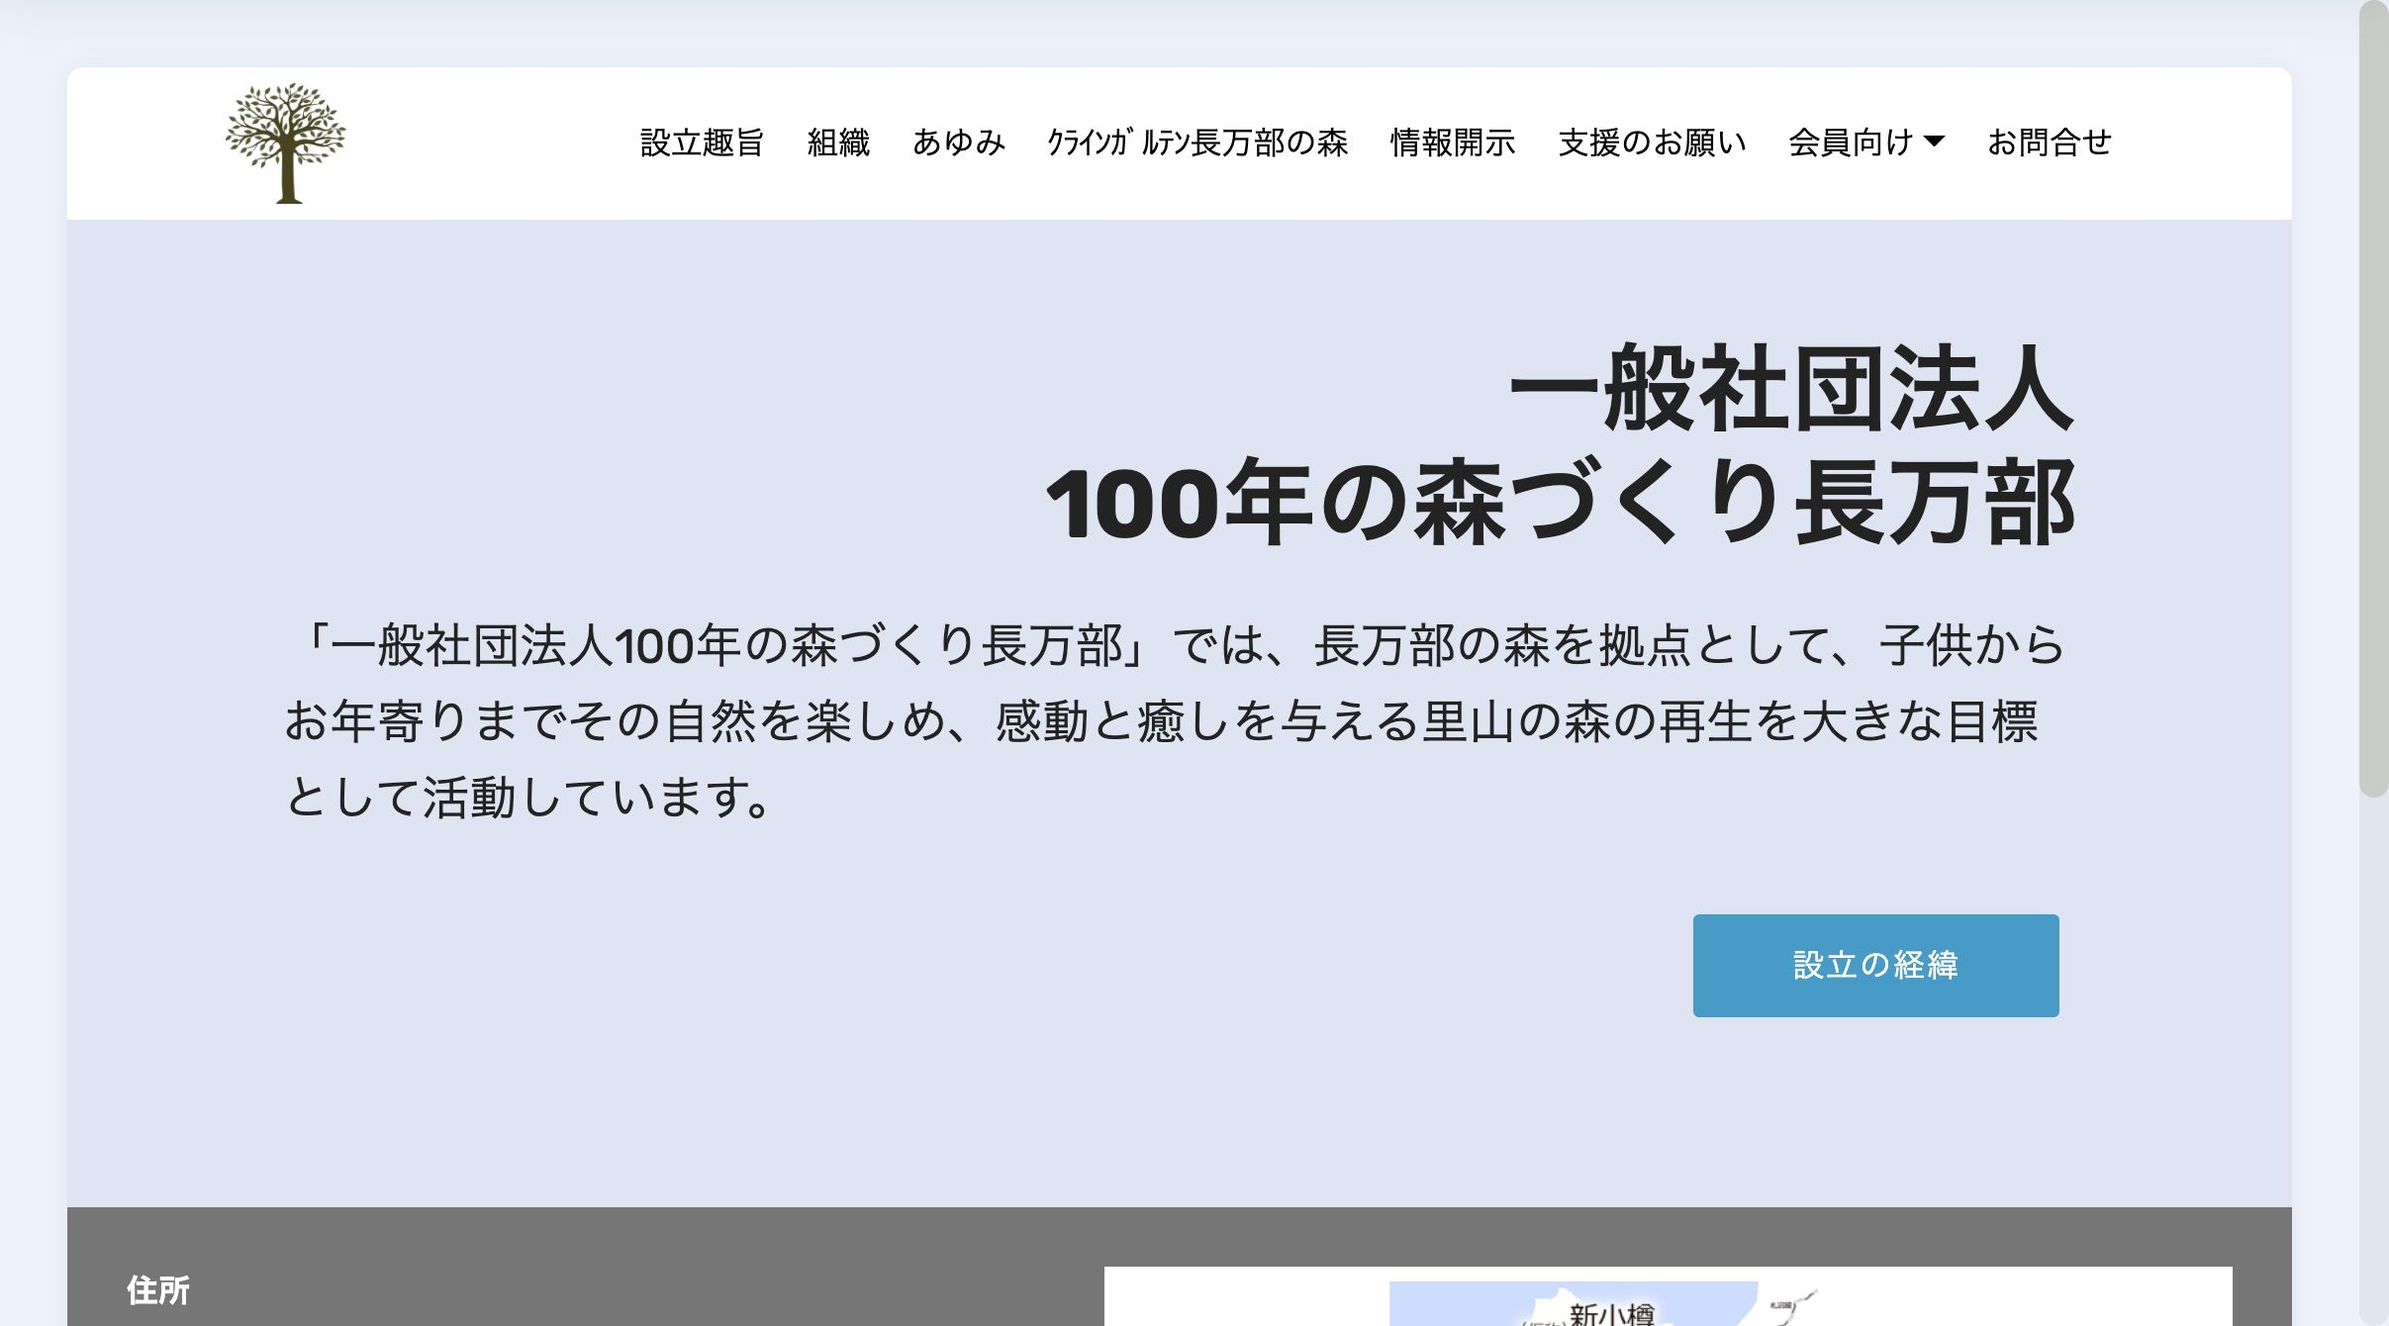
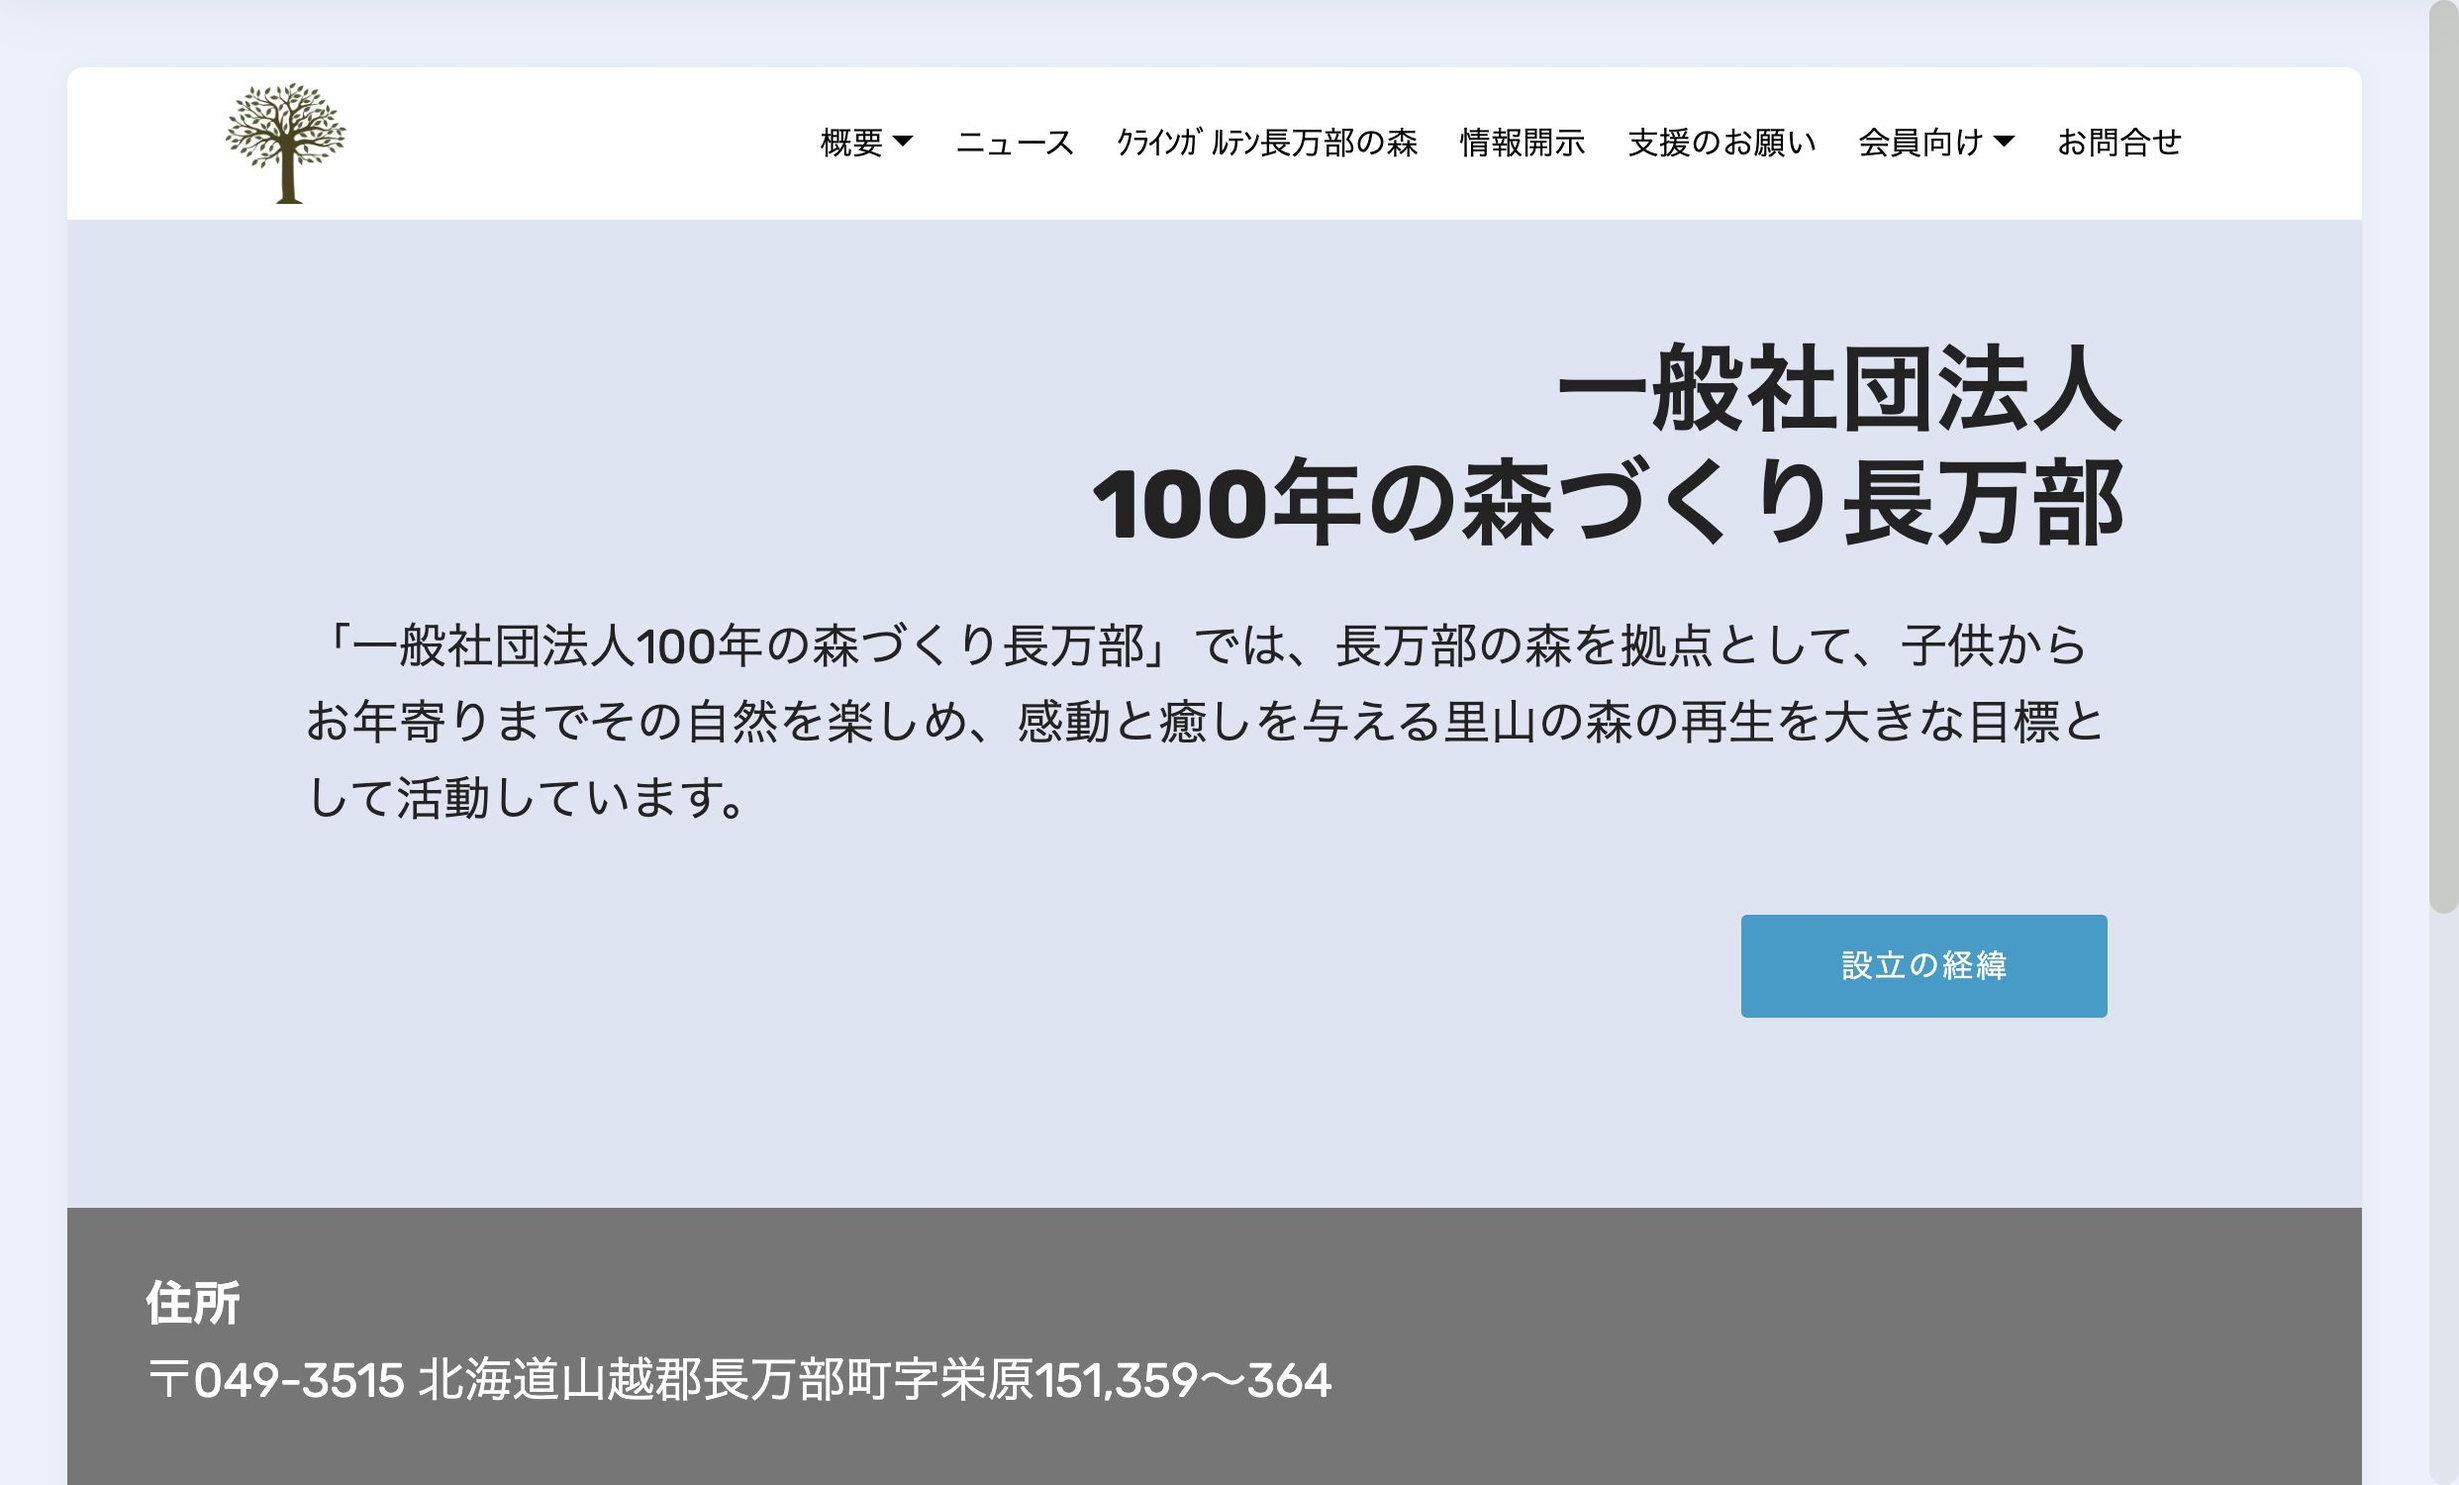
update

diff --git a/sien.html b/sien.html
@@ -40,37 +40,7 @@ j=d.createElement(s),dl=l!='dataLayer'?'&l='+l:'';j.async=true;j.src=
 
 
   
-  <section class="menu cid-qv1frvgcz3" once="menu" id="menu1-nv">
-
-    
-
-    <nav class="navbar navbar-expand beta-menu navbar-dropdown align-items-center navbar-fixed-top navbar-toggleable-sm">
-        <button class="navbar-toggler navbar-toggler-right" type="button" data-toggle="collapse" data-target="#navbarSupportedContent" aria-controls="navbarSupportedContent" aria-expanded="false" aria-label="Toggle navigation">
-            <div class="hamburger">
-                <span></span>
-                <span></span>
-                <span></span>
-                <span></span>
-            </div>
-        </button>
-        <div class="menu-logo">
-            <div class="navbar-brand">
-                <span class="navbar-logo">
-                    <a href="index.html">
-                         <img src="assets/images/tree.png" alt="" title="" style="height: 3.8rem;">
-                    </a>
-                </span>
-                
-            </div>
-        </div>
-        <div class="collapse navbar-collapse" id="navbarSupportedContent">
-            <ul class="navbar-nav nav-dropdown nav-right" data-app-modern-menu="true"><li class="nav-item"><a class="nav-link link text-black text-primary display-4" href="syushi.html" aria-expanded="false">設立趣旨</a></li><li class="nav-item"><a class="nav-link link text-black text-primary display-4" href="page10.html" aria-expanded="false">組織</a></li><li class="nav-item"><a class="nav-link link text-black text-primary display-4" href="ayumi.html" aria-expanded="false">あゆみ</a></li><li class="nav-item"><a class="nav-link link text-black display-4" href="mori.html" aria-expanded="false">ｸﾗｲﾝｶﾞﾙﾃﾝ長万部の森</a></li><li class="nav-item"><a class="nav-link link text-black display-4" href="kaiji.html" aria-expanded="false">情報開示</a></li><li class="nav-item"><a class="nav-link link text-black display-4" href="sien.html" aria-expanded="false">支援のお願い</a></li><li class="nav-item dropdown"><a class="nav-link link text-black dropdown-toggle display-4" href="page36.html" aria-expanded="false" data-toggle="dropdown-submenu">会員向け</a><div class="dropdown-menu"><a class="text-black dropdown-item display-4" href="kiyaku.html" aria-expanded="false">規約</a><a class="text-black dropdown-item display-4" href="lodge.html" aria-expanded="false">ロッジ利用マニュアル</a></div></li><li class="nav-item"><a class="nav-link link text-black text-primary display-4" href="toiawase.html" aria-expanded="false">お問合せ</a></li></ul>
-            
-        </div>
-    </nav>
-</section>
-
-<section class="header1 cid-rAjb6OKRKm" id="header16-ok">
+  <section class="header1 cid-rAjb6OKRKm" id="header16-ok">
 
     
 
@@ -108,6 +78,36 @@ j=d.createElement(s),dl=l!='dataLayer'?'&l='+l:'';j.async=true;j.src=
         </div>
     </div>
 
+</section>
+
+<section class="menu cid-qv1frvgcz3" once="menu" id="menu1-nv">
+
+    
+
+    <nav class="navbar navbar-expand beta-menu navbar-dropdown align-items-center navbar-fixed-top navbar-toggleable-sm">
+        <button class="navbar-toggler navbar-toggler-right" type="button" data-toggle="collapse" data-target="#navbarSupportedContent" aria-controls="navbarSupportedContent" aria-expanded="false" aria-label="Toggle navigation">
+            <div class="hamburger">
+                <span></span>
+                <span></span>
+                <span></span>
+                <span></span>
+            </div>
+        </button>
+        <div class="menu-logo">
+            <div class="navbar-brand">
+                <span class="navbar-logo">
+                    <a href="index.html">
+                         <img src="assets/images/tree.png" alt="" title="" style="height: 3.8rem;">
+                    </a>
+                </span>
+                
+            </div>
+        </div>
+        <div class="collapse navbar-collapse" id="navbarSupportedContent">
+            <ul class="navbar-nav nav-dropdown nav-right" data-app-modern-menu="true"><li class="nav-item"><a class="nav-link link text-black text-primary display-4" href="syushi.html" aria-expanded="false">設立趣旨</a></li><li class="nav-item"><a class="nav-link link text-black text-primary display-4" href="page10.html" aria-expanded="false">組織</a></li><li class="nav-item"><a class="nav-link link text-black text-primary display-4" href="ayumi.html" aria-expanded="false">あゆみ</a></li><li class="nav-item"><a class="nav-link link text-black display-4" href="mori.html" aria-expanded="false">ｸﾗｲﾝｶﾞﾙﾃﾝ長万部の森</a></li><li class="nav-item"><a class="nav-link link text-black display-4" href="kaiji.html" aria-expanded="false">情報開示</a></li><li class="nav-item"><a class="nav-link link text-black display-4" href="sien.html" aria-expanded="false">支援のお願い</a></li><li class="nav-item dropdown"><a class="nav-link link text-black dropdown-toggle display-4" href="page36.html" aria-expanded="false" data-toggle="dropdown-submenu">会員向け</a><div class="dropdown-menu"><a class="text-black dropdown-item display-4" href="kiyaku.html" aria-expanded="false">規約</a><a class="text-black dropdown-item display-4" href="lodge.html" aria-expanded="false">ロッジ利用マニュアル</a></div></li><li class="nav-item"><a class="nav-link link text-black text-primary display-4" href="toiawase.html" aria-expanded="false">お問合せ</a></li></ul>
+            
+        </div>
+    </nav>
 </section>
 
 <section class="section-table cid-rAj660rWZB" id="table1-oi">

diff --git a/syushi.html b/syushi.html
@@ -81,7 +81,7 @@ j=d.createElement(s),dl=l!='dataLayer'?'&l='+l:'';j.async=true;j.src=
                 </h2>
                 <h3 class="mbr-section-subtitle align-center mbr-light mbr-fonts-style display-7">
                     当法人は、クラインガルテン長万部の森の利用、整備及び保全並びに自然環境の保護及び整備を行い、それを活用して、自然と共生し心豊かな人生を目指す大人への支援及び自然のなかで児童や青少年の心身の健全な育成を目的とし、その目的に資するために次の事業を行います。
-                <div><br></div><div>1. 長万部栄原地区で里山づくりをすすめ、動物、植物、昆虫等の生物と人が共生する<span style="font-size: 1rem;">自然環境の保護、整備及び保全を図る事業</span></div><div><br></div><div>2. 上記里山を活用し、自然教育等を通じて児童又は青少年の心身の健全な育成を目的<span style="font-size: 1rem;">とする教育事業</span></div><div><br></div><div>3. 上記里山を活用し、大人の自然体験、環境教育・野外教育プログラム等を通じて、<span style="font-size: 1rem;">自然と共生し心豊かな人生を目指す人を応援する事業</span></div><br><div><span style="font-size: 1rem;">4. 前各号に反しない範囲で、当該地区にある資源を活用した林業、農業、造園業、漁業、&nbsp;</span><span style="font-size: 1rem;">狩猟業、飲食業、観光業、旅館業、席貸業、旅行業、音楽事業及び一定の技芸教授業等の事業並びに食品、健康関連商品、化粧品の製造及び販売業</span></div></h3>
+                <div><br></div><div>1. 長万部栄原地区で里山づくりをすすめ、動物、植物、昆虫等の生物と人が共生する自然環境の保護、整備及び保全を図る事業</div><div><br></div><div>2. 上記里山を活用し、自然教育等を通じて児童又は青少年の心身の健全な育成を目的とする教育事業</div><div><br></div><div>3. 上記里山を活用し、大人の自然体験、環境教育・野外教育プログラム等を通じて、自然と共生し心豊かな人生を目指す人を応援する事業</div><br>4. 前各号に反しない範囲で、当該地区にある資源を活用した林業、農業、造園業、漁業、 狩猟業、飲食業、観光業、旅館業、席貸業、旅行業、音楽事業及び一定の技芸教授業等の事業並びに食品、健康関連商品、化粧品の製造及び販売業</h3>
                 
             </div>
         </div>

diff --git a/page12.html b/page12.html
@@ -39,7 +39,28 @@ j=d.createElement(s),dl=l!='dataLayer'?'&l='+l:'';j.async=true;j.src=
 
 
   
-  <section class="menu cid-tBR3UsqdLp" once="menu" id="menu1-qv">
+  <section class="header1 cid-tBRnuPKxr0 mbr-parallax-background" id="header16-qx">
+
+    
+
+    <div class="mbr-overlay" style="opacity: 0.6; background-color: rgb(35, 35, 35);">
+    </div>
+
+    <div class="container">
+        <div class="row justify-content-md-center">
+            <div class="col-md-10 align-center">
+                <h1 class="mbr-section-title mbr-bold pb-3 mbr-fonts-style display-1">
+                    2023年コメ作り体験イベントル</h1>
+                
+                
+                
+            </div>
+        </div>
+    </div>
+
+</section>
+
+<section class="menu cid-tBR3UsqdLp" once="menu" id="menu1-qv">
 
     
 
@@ -67,27 +88,6 @@ j=d.createElement(s),dl=l!='dataLayer'?'&l='+l:'';j.async=true;j.src=
             
         </div>
     </nav>
-</section>
-
-<section class="header1 cid-tBRnuPKxr0 mbr-parallax-background" id="header16-qx">
-
-    
-
-    <div class="mbr-overlay" style="opacity: 0.6; background-color: rgb(35, 35, 35);">
-    </div>
-
-    <div class="container">
-        <div class="row justify-content-md-center">
-            <div class="col-md-10 align-center">
-                <h1 class="mbr-section-title mbr-bold pb-3 mbr-fonts-style display-1">
-                    2023年コメ作り体験イベントル</h1>
-                
-                
-                
-            </div>
-        </div>
-    </div>
-
 </section>
 
 <section class="mbr-section article content1 cid-tBRn80X7Sl" id="content1-qw">

diff --git a/toiawase.html b/toiawase.html
@@ -88,7 +88,7 @@ j=d.createElement(s),dl=l!='dataLayer'?'&l='+l:'';j.async=true;j.src=
         <div class="row justify-content-center">
             <div class="media-container-column col-lg-8" data-form-type="formoid">
                 <!---Formbuilder Form--->
-                <form action="https://mobirise.eu/" method="POST" class="mbr-form form-with-styler" data-form-title="Mobirise Form"><input type="hidden" name="email" data-form-email="true" value="poYyZ3aiqLuybgyfMVpP1SN0DOdlLXhmf5Zm2S09kaaGqK3xn7k1S66wglT1rQ9x2LCO1Ry2XFMEaOnDWcBo1F7EWBTD1UjkbiMBKUCU3V2f6gZIRbm/eC/LmJuLgHdG.VW32zUgtvX6R6WTddOZdWwxP+KPa6ffB/I7gyK6SvhbEW5xxAcjUs/cQjsz8iPF0JwNYGe3UtimtGhPFEMPWWIhXNMdWODvjUcBTe9urJXtuC0fSEIJ4sdiV+mrJSyxt">
+                <form action="https://mobirise.eu/" method="POST" class="mbr-form form-with-styler" data-form-title="Mobirise Form"><input type="hidden" name="email" data-form-email="true" value="lvH3s8YffyPASUGVBn9SOhWkQ0/BAV34Vzmtb6XJPmjCMiDqtsZk8iRP6u9z7YDNx7FsAvdqwqAp+jfAXIi/+V2/I/I/mE5jNHq2MUH2NOIitXh8nUB6YWr3sNcIY7hz.W7ZBWIO7Py3huG9D5QtXg0c/STBhzhw8OX8BozoAvGuPTKAltSoqkWIS+q6HFxmmZrsNu9gdFMKveWhXfAFS6QpvgQVQ8kJrJVWCmgUcVuZ533MUI/caNNmXAoHZJPBZ">
                     <div class="row">
                         <div hidden="hidden" data-form-alert="" class="alert alert-success col-12">お問合せありがとうございます。</div>
                         <div hidden="hidden" data-form-alert-danger="" class="alert alert-danger col-12">

diff --git a/mori.html b/mori.html
@@ -42,7 +42,26 @@ j=d.createElement(s),dl=l!='dataLayer'?'&l='+l:'';j.async=true;j.src=
 
 
   
-  <section class="menu cid-qv1frvgcz3" once="menu" id="menu1-nu">
+  <section class="header1 cid-rA9cLkfW1x" id="header16-nz">
+
+    
+
+    
+
+    <div class="container">
+        <div class="row justify-content-md-center">
+            <div class="col-md-10 align-center">
+                <h1 class="mbr-section-title mbr-bold pb-3 mbr-fonts-style display-1">クラインガルテン長万部の森</h1>
+                
+                
+                
+            </div>
+        </div>
+    </div>
+
+</section>
+
+<section class="menu cid-qv1frvgcz3" once="menu" id="menu1-nu">
 
     
 
@@ -70,25 +89,6 @@ j=d.createElement(s),dl=l!='dataLayer'?'&l='+l:'';j.async=true;j.src=
             
         </div>
     </nav>
-</section>
-
-<section class="header1 cid-rA9cLkfW1x" id="header16-nz">
-
-    
-
-    
-
-    <div class="container">
-        <div class="row justify-content-md-center">
-            <div class="col-md-10 align-center">
-                <h1 class="mbr-section-title mbr-bold pb-3 mbr-fonts-style display-1">クラインガルテン長万部の森</h1>
-                
-                
-                
-            </div>
-        </div>
-    </div>
-
 </section>
 
 <section class="mbr-section content7 cid-rAiQOIxFbt" id="content7-oe">

diff --git a/assets/mobirise/css/mbr-additional.css b/assets/mobirise/css/mbr-additional.css
@@ -4481,7 +4481,7 @@ section.lazy-placeholder:after {
 }
 .cid-sfEQmR8F9j .mbr-section-subtitle {
   color: #232323;
-  text-align: center;
+  text-align: left;
 }
 .cid-sfEQmR8F9j .container-table {
   margin: 0 auto;
@@ -4555,7 +4555,7 @@ section.lazy-placeholder:after {
   }
 }
 .cid-sfEQmR8F9j .mbr-section-subtitle DIV {
-  text-align: center;
+  text-align: left;
 }
 .cid-qv1frvgcz3 .navbar {
   padding: .5rem 0;
